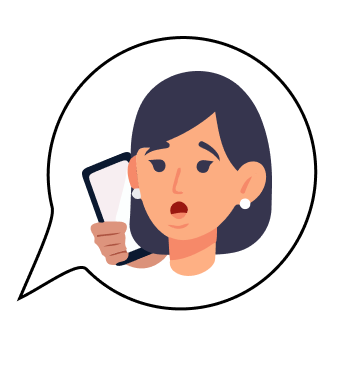
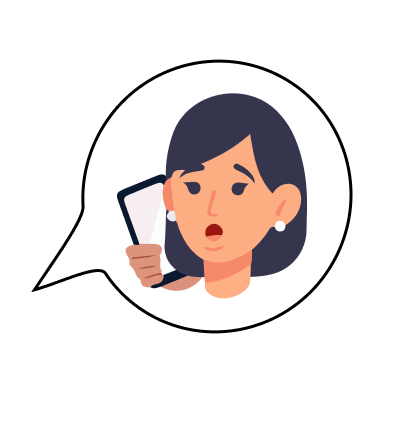
Forsøg på javascript til branching scenario

diff --git a/script.js b/script.js
@@ -37,9 +37,70 @@ document.querySelectorAll('.accordion-item h3').forEach((accordionToggle) => {
     btn.addEventListener('click', test);
 
 
-    /* Branching scenario*/
+ /* Branching scenario*/
 
-  
+  const textElement = document.getElementById('text');
+  const optionButtonsElement = document.getElementById('option-buttons');
 
+  function startScenario() {
+    showTextNode(1);
+  }
+
+  function showTextNode(textNodeIndex) {
+    const textNode = textNodes.find(textNode => textNode.id === textNodeIndex);
+    textElement.innerText = textNode.text;
+    while (optionButtonsElement.firstChild){
+    optionButtonsElement.removeChild(optionButtonsElement.firstChild);
+  }
+
+
+   textNode.options.forEach(option => {
+    if (showOption(option)) {
+    const button = document.createElement('button');
+    button.innerText = option.text;
+    button.classList.add('btn');
+    button.addEventListener('click', () => selectOption(option));
+    optionButtonsElement.appendChild(button);
+    }
+  })
+  }
+
+  function selectOption(option) {
+    const nextTextNodeId = option.nextText;
+    if (nextTextNodeId <= 0) {
+      return startScenario();
+    }
+    showTextNode(nextTextNodeId);
+  }
+
+  const textNodes = [
+    {
+        id: 1, 
+        text: 'Det er weekend og du har endelig tid til at sidde med din bærbare. Du skal både have fulgt op på din indbakke, finde forårstøj til børnene og meldt dig til sommerens hundeshow.',
+        /*text: 'Du starter med indbakken og opdager en mail, der ikke er til dig. Mailen ser mistænkelig ud og du får derfor lidt uro i hovedet. Du vælger at ringe til din tante, som er IT-ekspert og forklarer hende situationen ',
+        text: 'Hvad råder tanten dig til?',*/
+
+        options: [
+            {
+                text: 'Gå ind på hjemmesiden www.haveibeenpwned.com for at tjekke, om dit password er blevet hacket.',
+                nextText: 2
+             },
+             {
+                text: 'Skriv tilbage til personen der har sendt mailen for at afklare situationen.',
+                nextText: 2
+             },
+             {
+                text: 'Bloker afsenderen, slet mailen og skift password til mailkontoen med det samme.',
+                nextText: 2
+             }
+        ]
+    }, 
+    {
+        id: 2, 
+        Text: fffg,
+    }
+  ];
+
+  startScenario();
 
     

diff --git a/Scenario-start.html b/Scenario-start.html
@@ -13,14 +13,33 @@
 <body>
     
     <div class="box-scenario-start">
+
+        <nav>
+            <ul>
+                <li class="dropdown">
+                    <img class="menu" src="IMG/Menu.png" alt="Menu">
+                    <ul class="dropdown-menu">
+                        <li><a href="index.html">Forside</a></li>
+                        <li><a href="Vejledning.html">Vejledning</a></li>
+                        <li><a href="hacking.html">Hacking</a></li>
+                        <li><a href="password.html">Sikre passwords</a></li>
+                        <li><a href="vaerktoejer.html">Digitale værktøjer</a></li>
+                        <li><a href="scenario.html">Scenarie</a></li>
+                    </ul>
+                </li>
+            </ul>
+        </nav> 
+
         <img class="menu" src="IMG/Menu.png" alt="Menu">
         <img class="progressbar" src="IMG/progressbar3.png" alt="Progress bar">
         <img class="trekant" src="IMG/trekantgron.png" alt="grøn trekant">
 
 
         <div class="container">  
-         <div id="text">Text</div>
-         <div id="option-buttons" class="btn-grid">
+         <div id="text">text</div>
+         <div id="text2"></div>
+         <div id="text3"></div>
+         <div id="option-buttons">
             <button class="btn">Option 1</button>
             <button class="btn">Option 2</button>
             <button class="btn">Option 3</button>
@@ -29,9 +48,10 @@
 
 
 
-
-        <img class="hund" src="IMG/hund-start.png" alt="Lille glad hund">
-        <img class="password-pige-staa" src="IMG/password-pige-staa.png" alt="Kvinde der står op og smiler">
+        <img class="kvinde-sid" src="IMG/Kvinde 1.png" alt="Kvinde der sidder med en computer på skødet og ser overrasket ud">
+        <img class="tante" src="IMG/tante1.png" alt="En kvinde der snakker i telefon i en taleboble">
+        <img class="hund" src="IMG/hund1.png" alt="Lille glad hund">
+        
 
 
 

diff --git a/scss/style.scss b/scss/style.scss
@@ -554,22 +554,29 @@ nav{
     @include partial.box-onesize($bg-color: partial.$bg-color-morkgron);
 
 
-    .password-pige-staa{
+    .kvinde-sid{
         position: absolute;
         height: 75%;
-        left: 20%;
-        top: 15%;
+        left: 2%;
+        bottom: 2%;
+    }
+
+    .tante{
+        position: absolute;
+        height: 35%;
+        left: 21%;
+        top: 10%;
     }
 
     .hund{
         position: absolute;
-        height: 25%;
-        left: 8%;
-        bottom: 15%;
+        height: 28%;
+        left: 25%;
+        bottom: 35%;
     }
 
-    .text-scenario{
-        padding: 2em 2em 2em 5em;
+    .container{
+        padding: 2em 2em 2em 2em;
         border-radius: 25px;
         width: 50%;
         position: absolute;
@@ -578,6 +585,30 @@ nav{
         background-color: partial.$bg-color-textbox;
     }
 
+    #text{
+        font-family: partial.$pfont;
+        padding-bottom: 1em;
+    }
+
+    #option-buttons{
+        display: flex;
+        flex-direction: column;
+        gap: 1em;
+        
+    }
+
+    .btn{
+        font-family: partial.$pfont;
+        background-color: white;
+        border: 1px solid partial.$text-color;
+        border-radius: 10px;
+        padding: 1em;
+        text-align: left;
+    }
+
+    .btn:hover{
+        background-color: partial.$bg-color-hover-btn;
+    }
 
     .p-bund{
         padding-bottom: 1.7em;

diff --git a/scss/style.css b/scss/style.css
@@ -690,26 +690,52 @@ nav {
   width: 80%;
   padding-top: 0.5em;
 }
-.box-scenario-start .password-pige-staa {
+.box-scenario-start .kvinde-sid {
   position: absolute;
   height: 75%;
-  left: 20%;
-  top: 15%;
+  left: 2%;
+  bottom: 2%;
+}
+.box-scenario-start .tante {
+  position: absolute;
+  height: 35%;
+  left: 21%;
+  top: 10%;
 }
 .box-scenario-start .hund {
   position: absolute;
-  height: 25%;
-  left: 8%;
-  bottom: 15%;
+  height: 28%;
+  left: 25%;
+  bottom: 35%;
 }
-.box-scenario-start .text-scenario {
-  padding: 2em 2em 2em 5em;
+.box-scenario-start .container {
+  padding: 2em 2em 2em 2em;
   border-radius: 25px;
   width: 50%;
   position: absolute;
   right: 5%;
   top: 13%;
   background-color: rgba(255, 255, 255, 0.75);
+}
+.box-scenario-start #text {
+  font-family: "Roboto", sans-serif;
+  padding-bottom: 1em;
+}
+.box-scenario-start #option-buttons {
+  display: flex;
+  flex-direction: column;
+  gap: 1em;
+}
+.box-scenario-start .btn {
+  font-family: "Roboto", sans-serif;
+  background-color: white;
+  border: 1px solid #171717;
+  border-radius: 10px;
+  padding: 1em;
+  text-align: left;
+}
+.box-scenario-start .btn:hover {
+  background-color: #F9F1EB;
 }
 .box-scenario-start .p-bund {
   padding-bottom: 1.7em;

diff --git a/scenario-klar.html b/scenario-klar.html
@@ -13,6 +13,23 @@
 <body>
     
     <div class="box-scenario-klar">
+
+        <nav>
+            <ul>
+                <li class="dropdown">
+                    <img class="menu" src="IMG/Menu.png" alt="Menu">
+                    <ul class="dropdown-menu">
+                        <li><a href="index.html">Forside</a></li>
+                        <li><a href="Vejledning.html">Vejledning</a></li>
+                        <li><a href="hacking.html">Hacking</a></li>
+                        <li><a href="password.html">Sikre passwords</a></li>
+                        <li><a href="vaerktoejer.html">Digitale værktøjer</a></li>
+                        <li><a href="scenario.html">Scenarie</a></li>
+                    </ul>
+                </li>
+            </ul>
+        </nav> 
+
         <img class="menu" src="IMG/Menu.png" alt="Menu">
         <img class="progressbar" src="IMG/progressbar3.png" alt="Progress bar">
         <img class="trekant" src="IMG/trekantgron.png" alt="grøn trekant">

diff --git a/scss/_partial.scss b/scss/_partial.scss
@@ -11,6 +11,7 @@ $bg-color-morkgul: #EAB584;
 $bg-color-lysgul: #E6C9AF;
 $bg-color-banner: #FAD6AC;
 $bg-color-textbox: rgba(255, 255, 255, 0.75);
+$bg-color-hover-btn: #F9F1EB;
 
 $text-color: #171717;
 $rod-text: #C70000;
